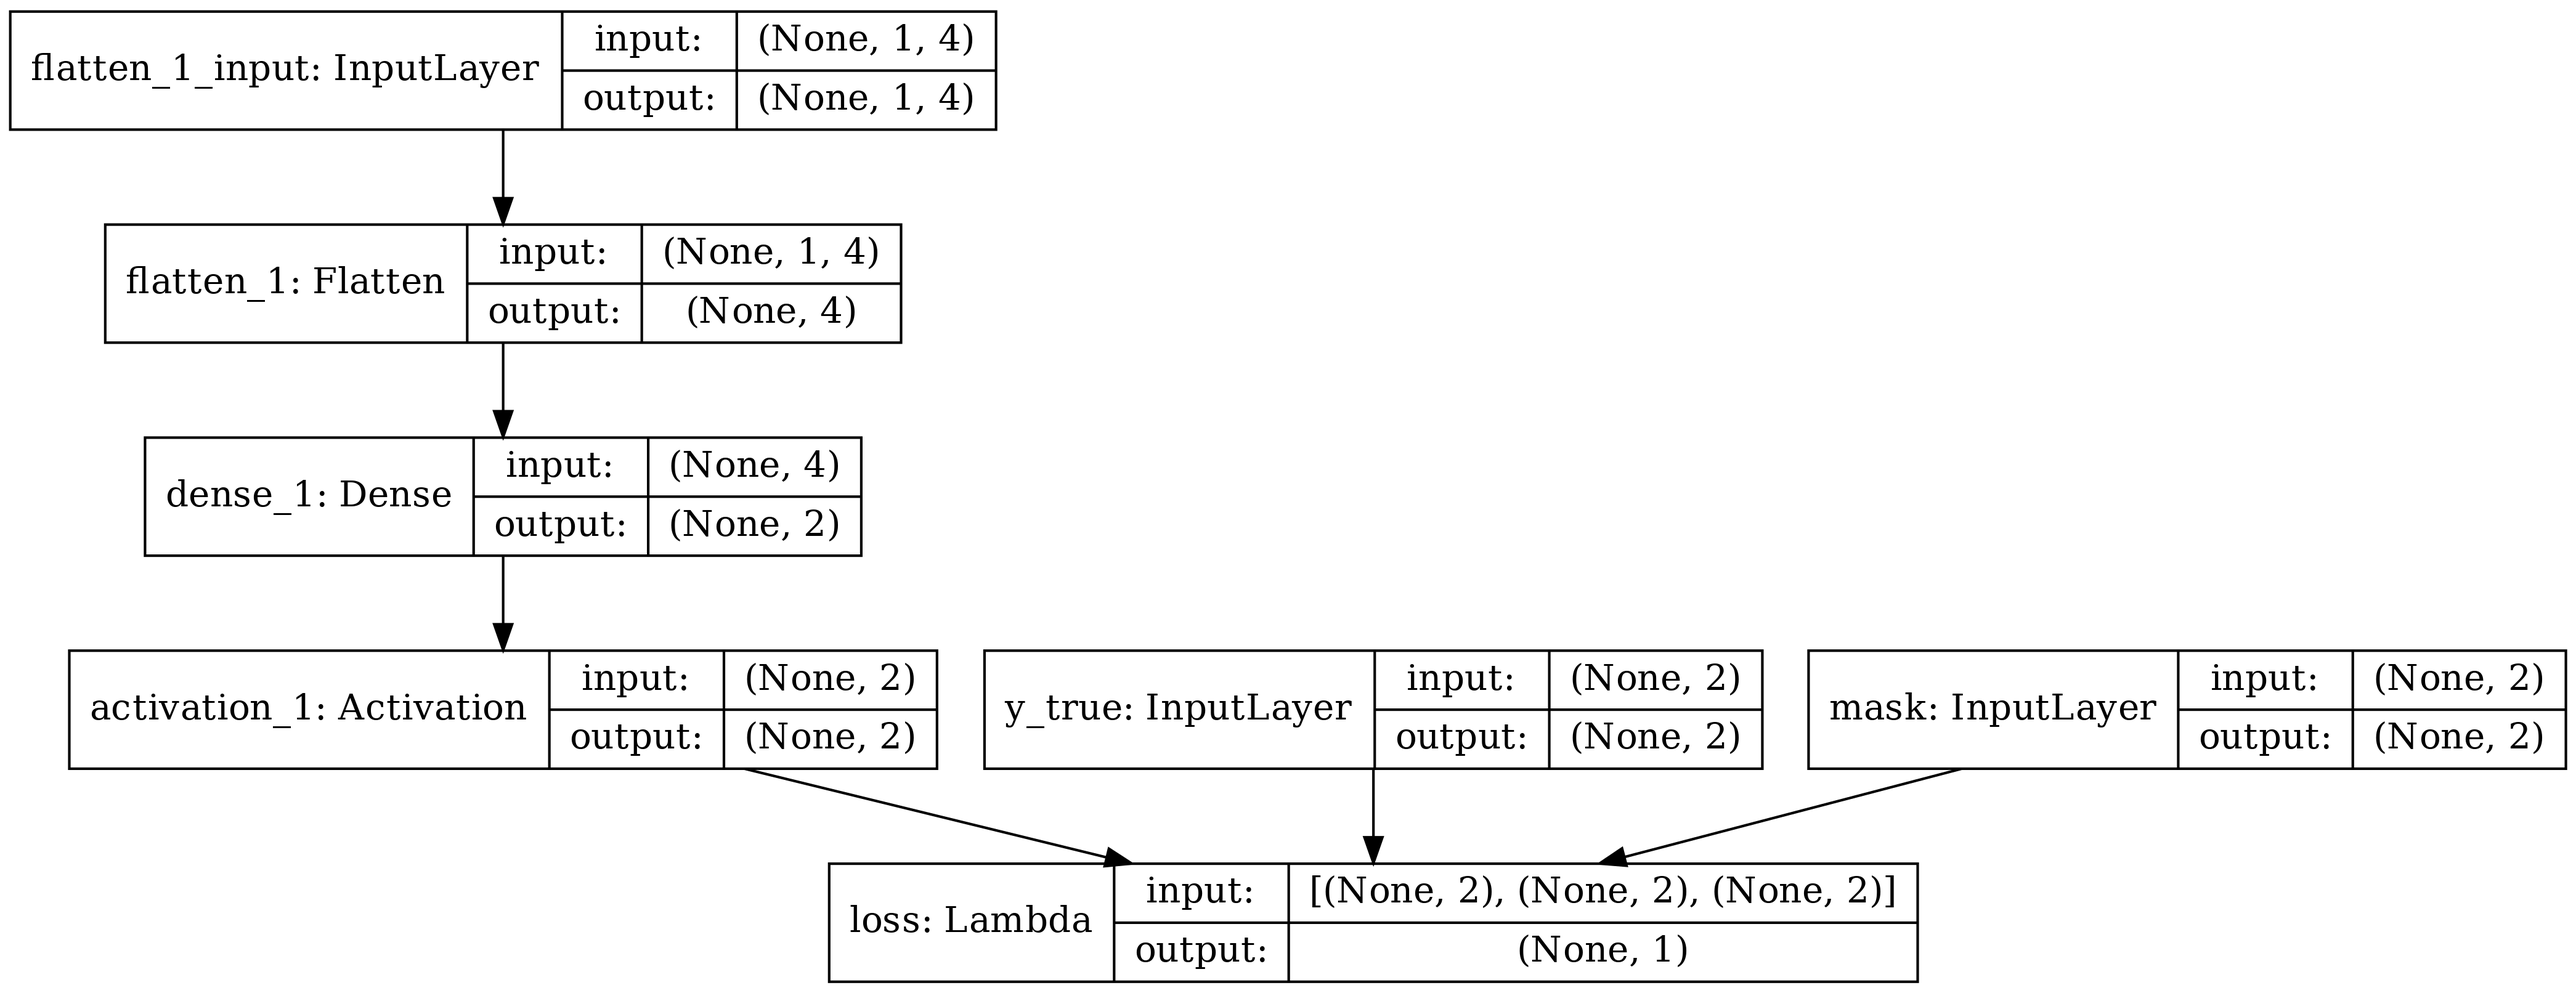
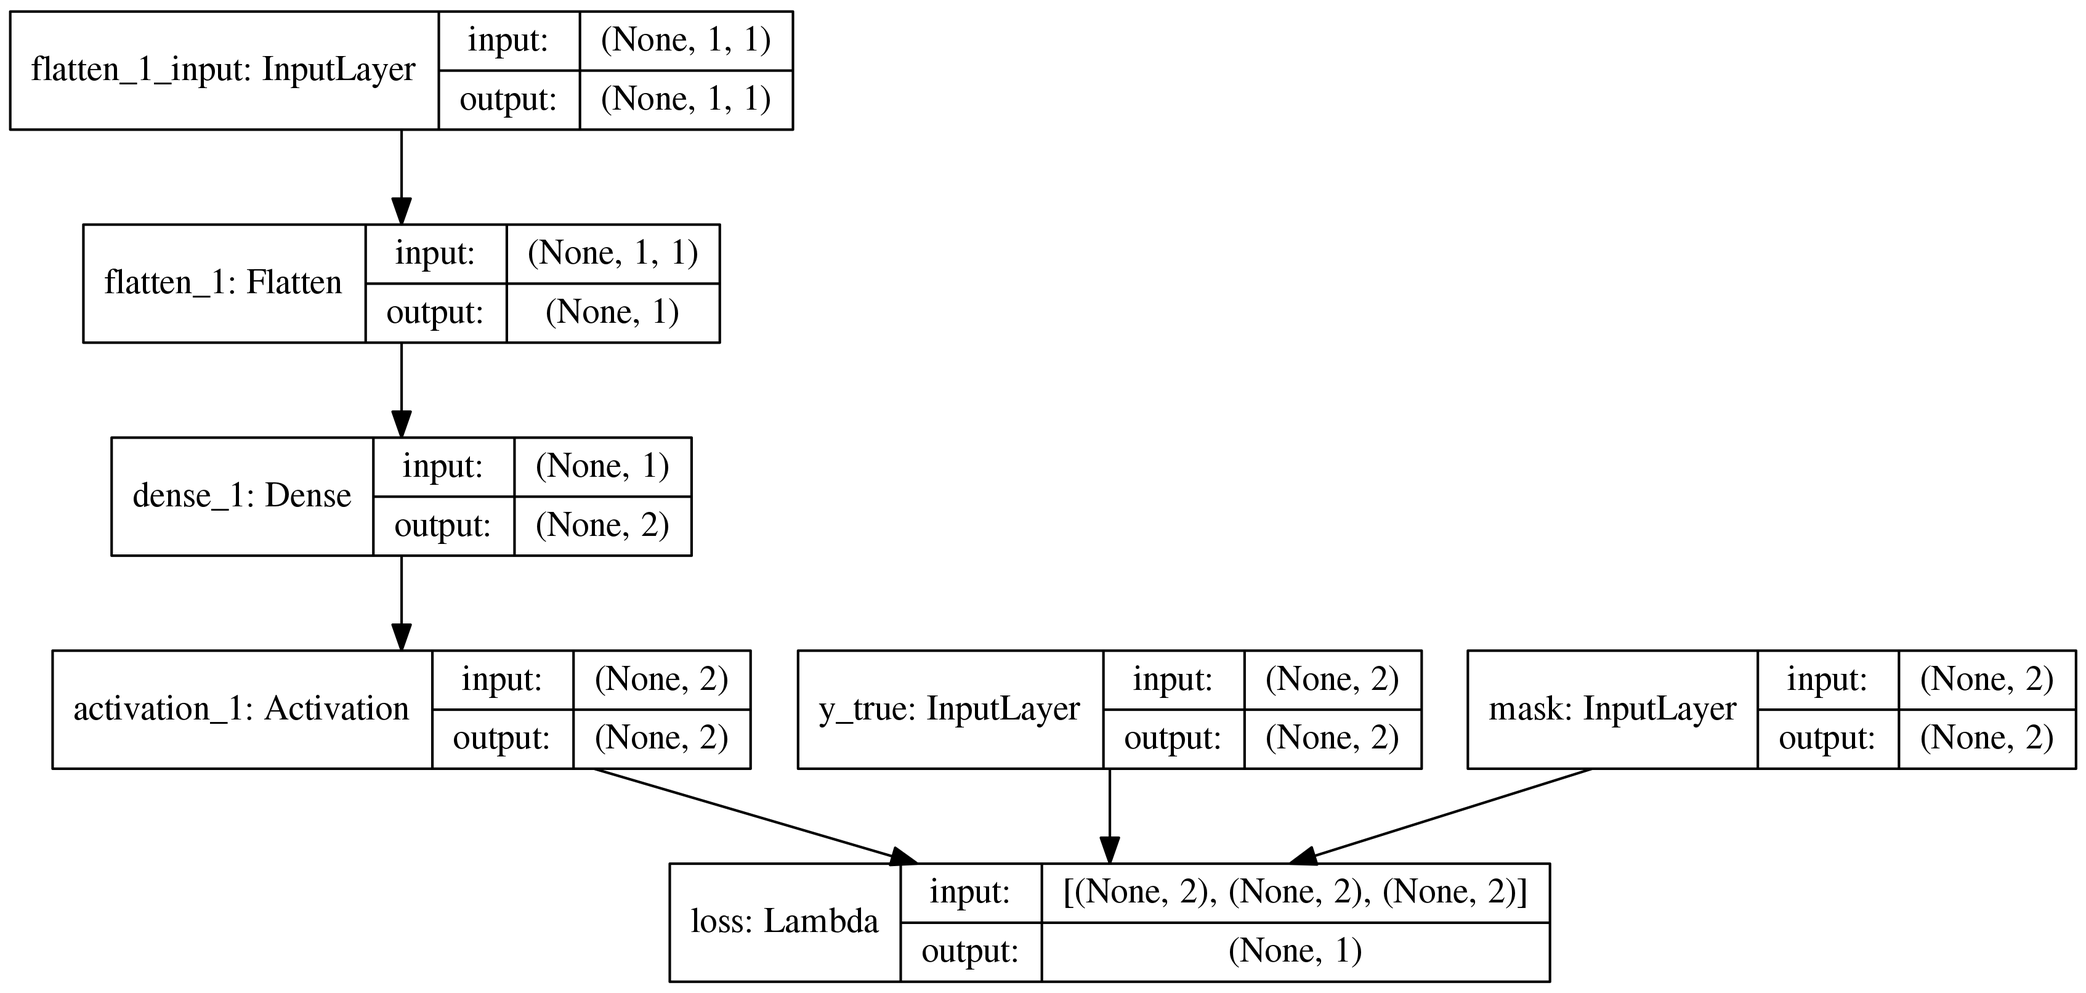
continuous states!

diff --git a/sim/tictactoe.py b/sim/tictactoe.py
@@ -3,6 +3,7 @@ import random
 import matplotlib as mpl
 
 import os 
+import warnings
 # oldBackend = mpl.get_backend()
 # print ("existing", oldBackend)
 # if os.name != 'nt':
@@ -60,10 +61,52 @@ class scenario:
 		return nextState, reward, done
 	
 
+
+# import sim.memory
+class singleStateScenario:
+	# s0/0 - s1 - s2 - s3/1
+	# -- s0/0 - s1 - s2/1
+	def __init__(self):
+		pass
+
+	state = None
+	def reset(self):
+		# print('reset')
+		self.state = 1/3.
+		return self.state
+
+	action_space = np.array([0, 1]) # left, right
+	observation_space = np.array([0])
+
+	def step(self, action):
+		done = False
+		if action == 0:
+			nextState = self.state - 1/3.
+		else:
+			nextState = self.state + 1/3.
+
+			
+		reward = 0
+		if nextState == 0 or nextState == 1.:
+			reward = 1 if (nextState == 1.) else 0
+			done = True
+
+		self.state = nextState
+		return nextState, reward, done
+	
+
 def forward(model, env):
 	# forward
-	observation = [0 if i != env.state else 1 for i in range(len(env.observation_space))]
+	# observation = [0 if i != env.state else 1 for i in range(len(env.observation_space))]
+	observation = [env.state]
 	q_values = model.predict(np.array(observation).reshape((1, 1, len(env.observation_space))))
+
+	# # inspection model
+	# inspect = keras.Model(inputs=model.input, outputs=model.get_layer(index=0).output)
+	# # inspectOutput = inspect.predict(np.array(observation).reshape((1, 1, len(env.observation_space))))
+	# print(observation)
+	# print(np.array(observation).reshape((1, 1, len(env.observation_space))))
+	# print(inspect.predict(np.array(observation).reshape((1, 1, len(env.observation_space)))))
 
 	action = policy.select_action(q_values=q_values[0])
 
@@ -119,10 +162,11 @@ def backward(model, trainable_model, env, oldState, reward, done, action):
 
 	return metrics
 
-numStates = len(scenario.observation_space)
-numActions = len(scenario.action_space)
+env = singleStateScenario() # gym.make('FrozenLake-v0')
+
 # states
-env = scenario() # gym.make('FrozenLake-v0')
+numStates = len(env.observation_space)
+numActions = len(env.action_space)
 
 # Next, we build a very simple model.
 model = keras.models.Sequential()
@@ -138,7 +182,6 @@ print('input shape', (1,) + env.observation_space.shape)
 model.add(keras.layers.Dense(numActions))
 model.add(keras.layers.Activation('linear'))
 model.summary()
-
 
 # plt.figure(6, figsize=(10,10))
 keras.utils.plot_model(model, to_file='model.png', show_shapes=True, expand_nested=True, dpi=300)
@@ -198,7 +241,7 @@ print('initial weights:', model.get_weights())
 # Set learning parameters
 y = .99
 e = 0.1
-num_episodes = int(1e2)
+num_episodes = int(1e3)
 #create lists to contain total rewards and steps per episode
 jList = []
 rList = []
@@ -217,6 +260,7 @@ for i in range(num_episodes):
 	j = 0
 	#The Q-Network
 	while j < 99 and not done:
+		# warnings.warn("short job!")
 		j+=1
 		
 		oldState = env.state
@@ -255,4 +299,3 @@ plt.plot(lossList);
 
 
 # plt.show()
-
